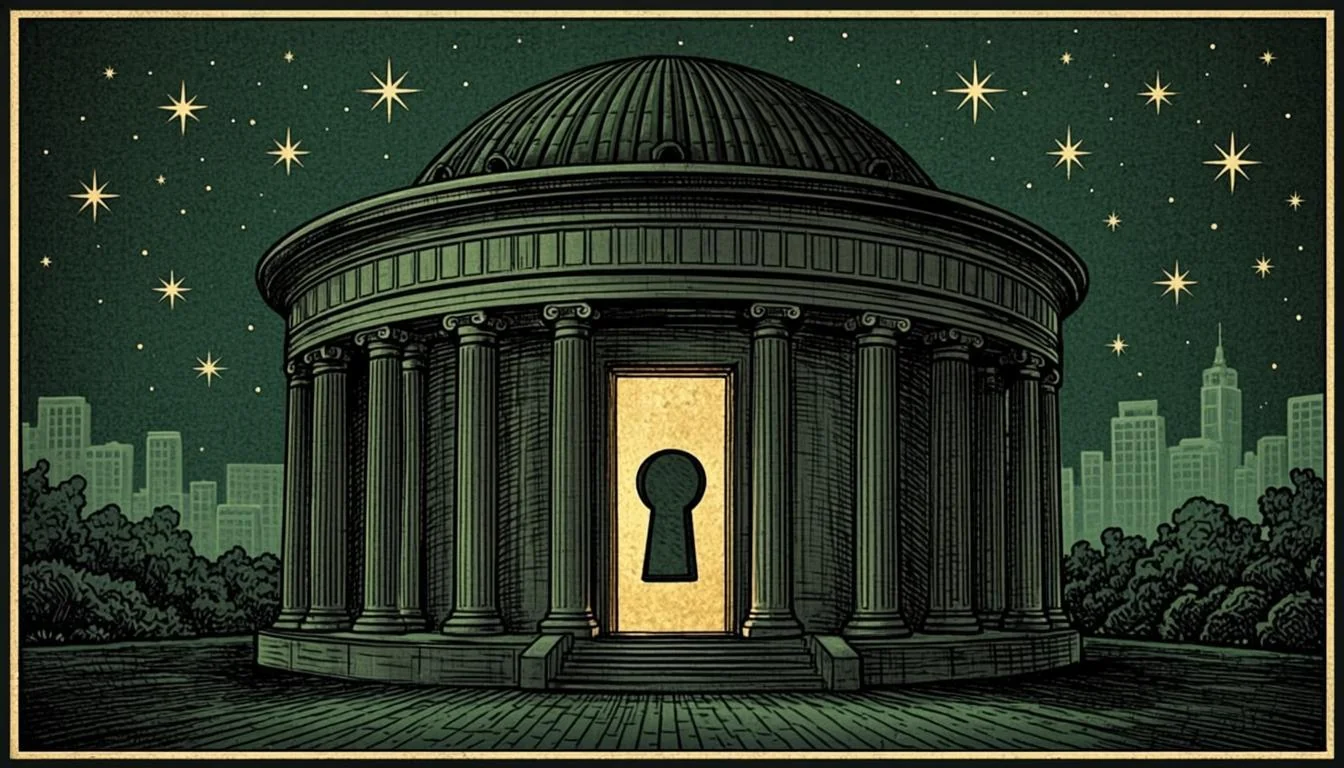
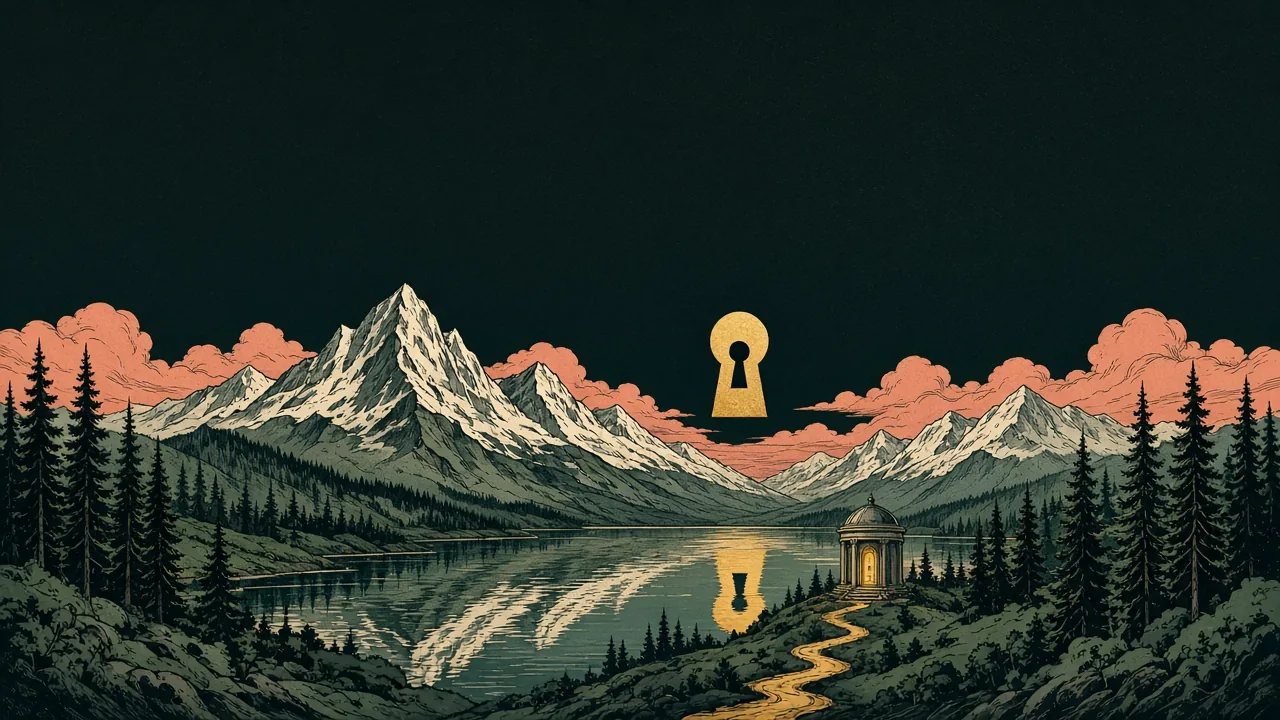
Give the landing hero a full-bleed midnight landscape so the first screen reads like a sealed exchange, not a boxed plate.

diff --git a/front/src/components/remit/landing/landing-hero.tsx b/front/src/components/remit/landing/landing-hero.tsx
@@ -1,174 +1,136 @@
 "use client";
 
-import { motion, useReducedMotion, useScroll, useTransform } from "framer-motion";
+import { useRef } from "react";
+import gsap from "gsap";
+import { useGSAP } from "@gsap/react";
+import { ScrollTrigger } from "gsap/ScrollTrigger";
 import { ArrowRight, Play } from "lucide-react";
 import { Button } from "@/components/ui/button";
-import { EASE } from "@/components/remit/primitives";
-import { CornerTicks } from "./plates";
-import { HeroFlow } from "./hero-flow";
 import { useRemitStore } from "@/store/remit";
 
-const FACTS = [
-  { title: "Private liquidity", label: "Offer terms stay sealed" },
-  { title: "Mandate-bound", label: "The agent cannot exceed its remit" },
-  { title: "Compact proof", label: "Fill is proven before value moves" },
-  { title: "Selective audit", label: "One authorized fact, not the book" },
-];
+gsap.registerPlugin(useGSAP, ScrollTrigger);
 
 export function LandingHero() {
+  const root = useRef<HTMLElement>(null);
   const enterWorkspace = useRemitStore((s) => s.enterWorkspace);
-  const reduced = useReducedMotion();
-  const { scrollY } = useScroll();
-  const flowY = useTransform(scrollY, [0, 600], [0, reduced ? 0 : -46]);
-  const groundY = useTransform(scrollY, [200, 1300], [0, reduced ? 0 : 56]);
+
+  useGSAP(
+    () => {
+      const mm = gsap.matchMedia();
+
+      mm.add("(prefers-reduced-motion: reduce)", () => {
+        gsap.set([".hero-copy", ".hero-art", ".hero-ground"], {
+          autoAlpha: 1,
+          y: 0,
+          scale: 1,
+        });
+      });
+
+      mm.add("(prefers-reduced-motion: no-preference)", () => {
+        gsap.set(".hero-ground", { scale: 1.08, transformOrigin: "50% 82%" });
+
+        const tl = gsap.timeline({ defaults: { ease: "power3.out" } });
+        tl.to(".hero-ground", { scale: 1, duration: 1.55 }, 0);
+        tl.from(
+          ".hero-copy",
+          { autoAlpha: 0, y: 22, duration: 0.8, stagger: 0.09 },
+          0.1,
+        );
+        tl.from(".hero-art", { autoAlpha: 0, y: 28, duration: 1.05 }, 0.35);
+
+        gsap.to(".hero-ground", {
+          y: 36,
+          ease: "none",
+          scrollTrigger: {
+            trigger: root.current,
+            start: "top top",
+            end: "bottom top",
+            scrub: 1,
+          },
+        });
+        gsap.to(".hero-art", {
+          y: -16,
+          ease: "none",
+          scrollTrigger: {
+            trigger: root.current,
+            start: "top top",
+            end: "bottom top",
+            scrub: 1,
+          },
+        });
+      });
+    },
+    { scope: root },
+  );
 
   const scrollToHow = () =>
     document.getElementById("how")?.scrollIntoView({ behavior: "smooth" });
 
   return (
-    <section className="relative overflow-hidden bg-ink text-cream">
-      {/* ambience */}
-      <div className="glow-gold pointer-events-none absolute inset-x-0 top-0 h-[560px]" aria-hidden="true" />
-      <div
-        className="pointer-events-none absolute inset-0 opacity-[0.35]"
-        aria-hidden="true"
-        style={{
-          backgroundImage:
-            "radial-gradient(rgba(239,235,224,0.05) 1px, transparent 1px)",
-          backgroundSize: "34px 34px",
-        }}
-      />
+    <section
+      ref={root}
+      className="relative min-h-[100dvh] overflow-hidden bg-ink text-cream"
+    >
+      <div className="pointer-events-none absolute inset-0">
+        <img
+          src="/remit-art/hero-ground.webp"
+          alt="Illustrated midnight valley with a keyhole moon over a private path to a single glowing doorway"
+          width={1280}
+          height={720}
+          fetchPriority="high"
+          decoding="async"
+          className="hero-ground absolute inset-0 h-full w-full object-cover object-[center_16%] will-change-transform"
+        />
+        <div className="absolute inset-0 bg-gradient-to-b from-[#0d1512]/78 via-[#0d1512]/28 to-transparent" />
+        <div className="absolute inset-x-0 bottom-0 h-28 bg-gradient-to-t from-[#0d1512] to-transparent" />
+      </div>
 
-      <div className="relative mx-auto max-w-7xl px-5 pb-16 pt-36 sm:px-8 sm:pt-44">
-        <div className="mx-auto max-w-4xl text-center">
-          <motion.p
-            initial={reduced ? false : { opacity: 0, y: 14 }}
-            animate={{ opacity: 1, y: 0 }}
-            transition={{ duration: 0.7, ease: EASE }}
-            className="eyebrow justify-center text-gold"
+      <div className="relative z-[2] mx-auto flex min-h-[100dvh] w-full max-w-6xl flex-col items-center px-4 pb-40 pt-24 text-center sm:px-8">
+        <p className="hero-copy eyebrow text-gold">
+          Private execution on Midnight
+        </p>
+
+        <h1 className="hero-copy font-display mt-5 max-w-6xl text-balance text-[clamp(3rem,5vw,5.5rem)] font-semibold leading-[1.05] tracking-[-0.015em]">
+          Trade on your rules.
+          <br />
+          Without revealing{" "}
+          <em className="pb-1 italic leading-[1.1] text-gold">the rules.</em>
+        </h1>
+
+        <p className="hero-copy mx-auto mt-6 max-w-xl text-pretty text-[1.05rem] leading-relaxed text-cream/72 sm:text-lg">
+          Seal a mandate. Let an agent fill it. Midnight proves the fill before
+          value moves.
+        </p>
+
+        <div className="hero-copy mt-8 flex w-full flex-col items-center justify-center gap-3 sm:flex-row">
+          <Button
+            size="lg"
+            className="h-13 bg-gold px-8 text-[15px] font-semibold text-[#1a1409] hover:bg-gold-2 active:scale-[0.98]"
+            onClick={enterWorkspace}
           >
-            Private execution infrastructure · built for Midnight
-          </motion.p>
-
-          <motion.h1
-            initial={reduced ? false : { opacity: 0, y: 26 }}
-            animate={{ opacity: 1, y: 0 }}
-            transition={{ duration: 0.85, delay: 0.1, ease: EASE }}
-            className="font-display mt-7 text-balance text-[clamp(3.1rem,7.8vw,6.9rem)] font-semibold leading-[0.98] tracking-[-0.015em]"
+            Explore REMIT
+            <ArrowRight className="ml-2 h-4.5 w-4.5" />
+          </Button>
+          <Button
+            size="lg"
+            variant="outline"
+            className="h-13 border-[rgba(239,235,224,0.22)] bg-transparent px-7 text-[15px] text-cream/90 hover:bg-[rgba(239,235,224,0.06)] hover:text-cream active:scale-[0.98]"
+            onClick={scrollToHow}
           >
-            Trade on your rules.
-            <br />
-            Without revealing{" "}
-            <em className="italic text-gold">the rules.</em>
-          </motion.h1>
-
-          <motion.p
-            initial={reduced ? false : { opacity: 0, y: 20 }}
-            animate={{ opacity: 1, y: 0 }}
-            transition={{ duration: 0.8, delay: 0.24, ease: EASE }}
-            className="mx-auto mt-7 max-w-2xl text-pretty text-[1.08rem] leading-relaxed text-cream/70 sm:text-lg"
-          >
-            REMIT lets an agent execute inside a private mandate. Midnight
-            proves the fill obeyed the mandate before value moves — so you
-            delegate the trade, never the trust.
-          </motion.p>
-
-          <motion.div
-            initial={reduced ? false : { opacity: 0, y: 18 }}
-            animate={{ opacity: 1, y: 0 }}
-            transition={{ duration: 0.8, delay: 0.36, ease: EASE }}
-            className="mt-10 flex flex-col items-center justify-center gap-3.5 sm:flex-row"
-          >
-            <Button
-              size="lg"
-              className="h-13 bg-gold px-8 text-[15px] font-semibold text-[#1a1409] hover:bg-gold-2"
-              onClick={enterWorkspace}
-            >
-              Explore REMIT
-              <ArrowRight className="ml-2 h-4.5 w-4.5" />
-            </Button>
-            <Button
-              size="lg"
-              variant="outline"
-              className="h-13 border-[rgba(239,235,224,0.2)] bg-transparent px-7 text-[15px] text-cream/85 hover:bg-[rgba(239,235,224,0.06)] hover:text-cream"
-              onClick={scrollToHow}
-            >
-              <Play className="mr-2 h-4 w-4 text-gold" />
-              See how private execution works
-            </Button>
-          </motion.div>
-        </div>
-
-        {/* the flow illustration */}
-        <motion.div
-          style={{ y: flowY }}
-          initial={reduced ? false : { opacity: 0, y: 40 }}
-          animate={{ opacity: 1, y: 0 }}
-          transition={{ duration: 1, delay: 0.5, ease: EASE }}
-          className="mx-auto mt-16 max-w-5xl sm:mt-20"
-        >
-          <HeroFlow />
-        </motion.div>
-
-        {/* the engraved ground — the hero settles onto this plate */}
-        <motion.div
-          style={{ y: groundY }}
-          initial={reduced ? false : { opacity: 0, y: 56 }}
-          animate={{ opacity: 1, y: 0 }}
-          transition={{ duration: 1.2, delay: 0.72, ease: EASE }}
-          className="mx-auto mt-16 max-w-6xl sm:mt-20"
-        >
-          <figure className="relative">
-            <div className="relative overflow-hidden rounded-2xl border border-[rgba(239,235,224,0.12)] bg-ink">
-              { }
-              <img
-                src="/remit-art/hero-ground.webp"
-                alt="Copperplate engraving of a neoclassical exchange rotunda at night, its keyhole doorway glowing gold"
-                loading="eager"
-                decoding="async"
-                className="block h-[260px] w-full select-none object-cover sm:h-[340px] lg:h-[420px]"
-                style={{
-                  maskImage:
-                    "linear-gradient(to bottom, transparent 0%, black 16%, black 92%, rgba(0,0,0,0.55) 100%)",
-                  WebkitMaskImage:
-                    "linear-gradient(to bottom, transparent 0%, black 16%, black 92%, rgba(0,0,0,0.55) 100%)",
-                }}
-              />
-              <div className="glow-gold-soft pointer-events-none absolute inset-0" aria-hidden="true" />
-              <CornerTicks />
-            </div>
-            <figcaption className="mt-3 flex flex-wrap items-baseline justify-between gap-x-5 gap-y-1">
-              <span className="font-data text-[10px] font-medium uppercase tracking-[0.24em] text-gold/80">
-                PLATE I — THE EXCHANGE AT MIDNIGHT
-              </span>
-              <span className="font-display text-[13px] italic text-cream/45">
-                One keyhole. No keys on display.
-              </span>
-            </figcaption>
-          </figure>
-        </motion.div>
-
-        {/* stat strip */}
-        <div className="mx-auto mt-14 grid max-w-5xl grid-cols-2 gap-px overflow-hidden rounded-2xl border border-[rgba(239,235,224,0.1)] bg-[rgba(239,235,224,0.07)] sm:mt-16 lg:grid-cols-4">
-          {FACTS.map((s, i) => (
-            <motion.div
-              key={s.label}
-              initial={reduced ? false : { opacity: 0, y: 16 }}
-              whileInView={{ opacity: 1, y: 0 }}
-              viewport={{ once: true }}
-              transition={{ duration: 0.7, delay: i * 0.09, ease: EASE }}
-              className="flex flex-col gap-1.5 bg-[#101915] px-6 py-6 text-center sm:py-7"
-            >
-              <span className="text-[1.15rem] font-medium tracking-tight text-cream sm:text-[1.25rem]">
-                {s.title}
-              </span>
-              <span className="text-[11px] uppercase tracking-[0.14em] text-sage">
-                {s.label}
-              </span>
-            </motion.div>
-          ))}
+            <Play className="mr-2 h-4 w-4 text-gold" />
+            See how it works
+          </Button>
         </div>
       </div>
+
+      <img
+        src="/remit-art/hero-courier.png"
+        alt="Illustrated REMIT courier holding a sealed mandate"
+        width={318}
+        height={720}
+        decoding="async"
+        className="hero-art pointer-events-none absolute bottom-[4%] right-[2%] z-[3] hidden w-[min(240px,26vw)] drop-shadow-[0_18px_32px_rgb(0_0_0_/_0.55)] lg:block"
+      />
     </section>
   );
 }

diff --git a/front/src/components/remit/landing/landing-facts.tsx b/front/src/components/remit/landing/landing-facts.tsx
@@ -1,0 +1,28 @@
+"use client";
+
+const FACTS = [
+  { title: "Private liquidity", label: "Offer terms stay sealed" },
+  { title: "Mandate-bound", label: "The agent cannot exceed its remit" },
+  { title: "Compact proof", label: "Fill is proven before value moves" },
+  { title: "Selective audit", label: "One authorized fact, not the book" },
+];
+
+export function LandingFacts() {
+  return (
+    <section className="relative border-t border-[rgba(239,235,224,0.1)] bg-ink text-cream">
+      <div className="mx-auto grid max-w-6xl grid-cols-1 sm:grid-cols-2 lg:grid-cols-4">
+        {FACTS.map((s) => (
+          <div
+            key={s.title}
+            className="flex flex-col gap-1.5 px-6 py-7 text-center sm:py-8 lg:border-r lg:border-[rgba(239,235,224,0.08)] lg:last:border-r-0"
+          >
+            <span className="text-[1.12rem] font-medium tracking-tight text-cream sm:text-[1.2rem]">
+              {s.title}
+            </span>
+            <span className="text-[12px] leading-snug text-sage">{s.label}</span>
+          </div>
+        ))}
+      </div>
+    </section>
+  );
+}

diff --git a/front/src/components/remit/landing/landing-page.tsx b/front/src/components/remit/landing/landing-page.tsx
@@ -6,6 +6,7 @@
 
 import { LandingNav } from "./landing-nav";
 import { LandingHero } from "./landing-hero";
+import { LandingFacts } from "./landing-facts";
 import { SectionLeak } from "./section-leak";
 import { SectionInterlude } from "./section-interlude";
 import { SectionComparison } from "./section-comparison";
@@ -21,8 +22,9 @@ export function LandingPage() {
   return (
     <div className="flex min-h-screen flex-col">
       <LandingNav />
-      <main className="flex-1">
+      <main className="w-full max-w-full flex-1 overflow-x-hidden">
         <LandingHero />
+        <LandingFacts />
         <SectionLeak />
         <SectionInterlude />
         <SectionComparison />
